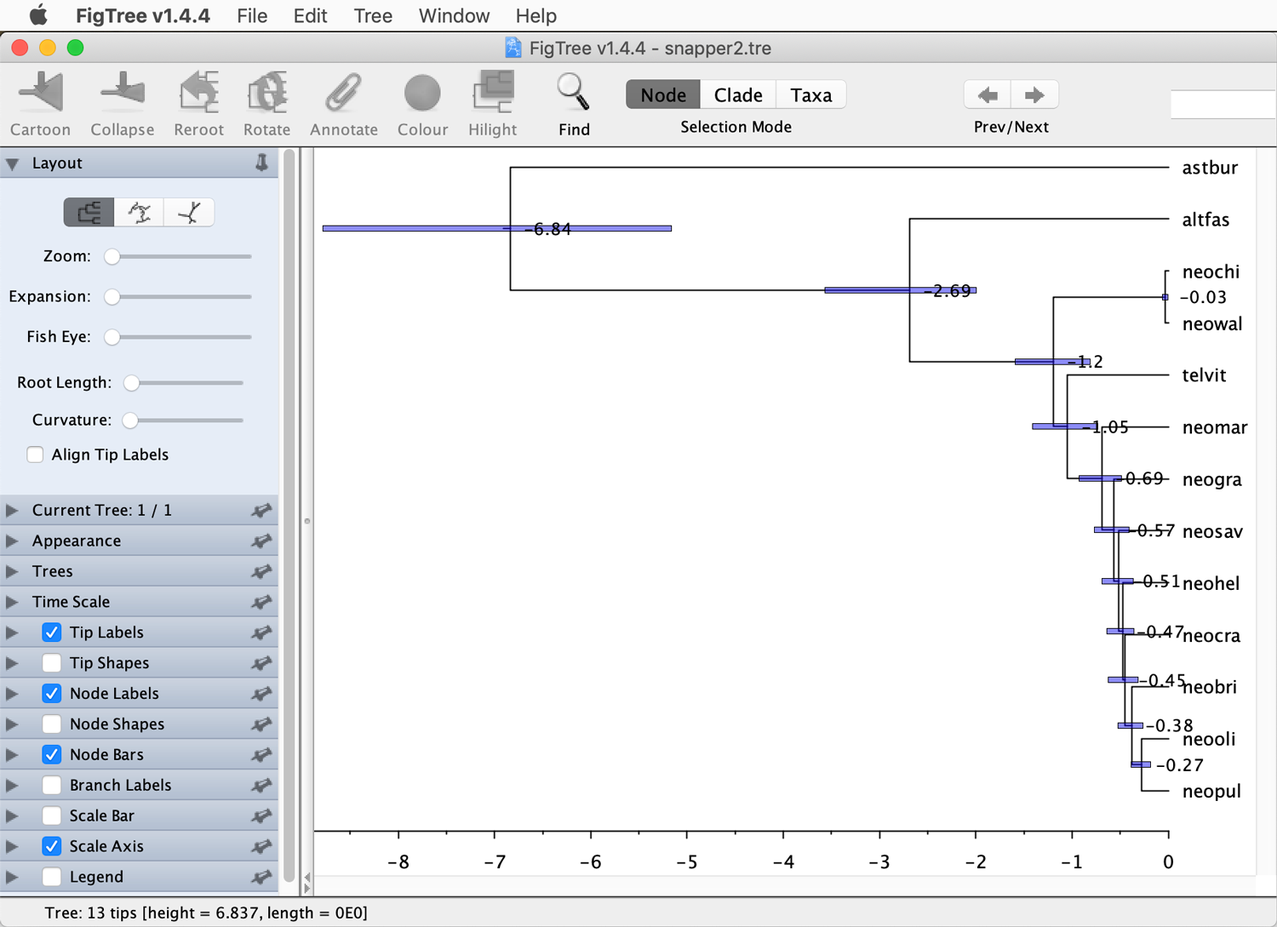
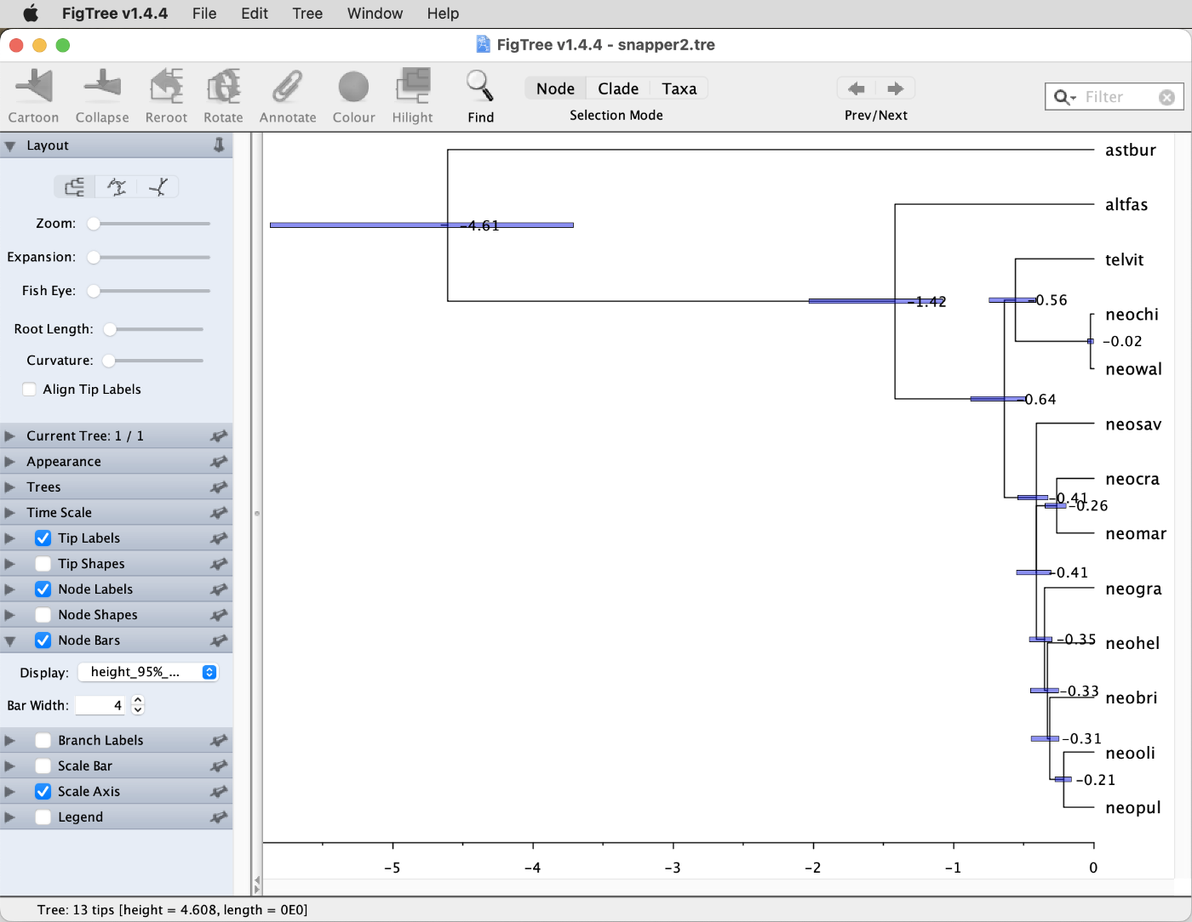
updated tutorial divergence time estimation with snp data

Changed region(s): [[0.0, 0.0, 1.0, 1.0], [0.3993, 0.3044, 0.7986, 0.3349], [0.7064, 0.3653, 0.7679, 0.3958]]

diff --git a/divergence_time_estimation_with_snp_data/README.md b/divergence_time_estimation_with_snp_data/README.md
@@ -5,7 +5,7 @@ By [Michael Matschiner](https://evoinformatics.group/team.html#michaelmatschiner
 
 ## Summary
 
-Besides [SVDQuartets](https://www.asc.ohio-state.edu/kubatko.2/software/SVDquartets/) ([Chifman and Kubatko 2014](https://doi.org/10.1093/bioinformatics/btu530)), other methods for phylogenetic inference with the multi-species-coalescent model based on SNP data are implemented in [SNAPP (SNP and AFLP Package for Phylogenetic analysis)](https://www.beast2.org/snapp/) ([Bryant et al. 2012](https://doi.org/10.1093/molbev/mss086)) and [SNAPPER](https://github.com/rbouckaert/snapper) ([Stoltz et al. 2021](https://doi.org/10.1093/sysbio/syaa051)), two add-on packages for the program BEAST2. SNAPP is in principle similar to the approach of StarBEAST2, only that each single SNP is considered as its own marker and gene trees are not separately inferred for each of these markers. Instead, SNAPP calculates the probability of the species tree without inferring gene trees, by mathematically integrating over all possible gene trees. This approach reduces the parameter space of the model tremendously and might thus be expected to also reduce the computational demand of the analysis. Unfortunately, however, the mathematical integration over all possible gene trees is computationally very demanding and SNAPP analyses are therefore only feasible for a relatively small number of individuals per species. This problem of SNAPP's high computational demand has recently been addressed with the release of SNAPPER, an approach that is similar to SNAPP except that a so-called diffusion model is used to calculate the likelihood of the species tree instead of mathematically integrating over all possible gene trees.
+Besides [SVDQuartets](https://www.asc.ohio-state.edu/kubatko.2/software/SVDquartets/) ([Chifman and Kubatko 2014](https://doi.org/10.1093/bioinformatics/btu530)), other methods for phylogenetic inference with the multi-species-coalescent model based on SNP data are implemented in [SNAPP (SNP and AFLP Package for Phylogenetic analysis)](https://www.beast2.org/snapp/) ([Bryant et al. 2012](https://doi.org/10.1093/molbev/mss086)) and [SNAPPER](https://github.com/rbouckaert/snapper) ([Stoltz et al. 2021](https://doi.org/10.1093/sysbio/syaa051)), two add-on packages for the program BEAST2. SNAPP is in principle similar to the approach of StarBeast3, only that each single SNP is considered as its own marker and gene trees are not separately inferred for each of these markers. Instead, SNAPP calculates the probability of the species tree without inferring gene trees, by mathematically integrating over all possible gene trees. This approach reduces the parameter space of the model tremendously and might thus be expected to also reduce the computational demand of the analysis. Unfortunately, however, the mathematical integration over all possible gene trees is computationally very demanding and SNAPP analyses are therefore only feasible for a relatively small number of individuals per species. This problem of SNAPP's high computational demand has recently been addressed with the release of SNAPPER, an approach that is similar to SNAPP except that a so-called diffusion model is used to calculate the likelihood of the species tree instead of mathematically integrating over all possible gene trees.
 
 Another limitation of SNAPP has long been that the reported branch lengths were in coalescent units rather than in units of time, and that these could not easily be converted into time due to ascertainment bias in the SNP data. To address this, we tweaked the settings of SNAPP in our study [Stange et al. (2018)](https://doi.org/10.1093/sysbio/syy006) so that they include a strict-clock model that can be time calibrated based on the fossil record or on information from other phylogenies.
 
@@ -23,7 +23,7 @@ Another limitation of SNAPP has long been that the reported branch lengths were 
 <a name="outline"></a>
 ## Outline
 
-In this tutorial I am going to present how the BEAST2 add-on packages SNAPP and SNAPPER can be used for divergence-time estimation with SNP data. The settings of for time-calibrated inference with both approaches can not be specified through the program BEAUti, but instead the Ruby script [`snapp_prep.rb`](https://github.com/mmatschiner/snapp_prep) can be used to generate input files for time-calibrated analyses with SNAPP or SNAPPER. Run times will be compared between the two approaches and differences between the inferred species trees and between these and the species tree generated in tutorial [Bayesian Species-Tree Inference](../bayesian_species_tree_inference/README.md) will be explored.
+In this tutorial I am going to present how the BEAST2 add-on packages SNAPP and SNAPPER can be used for divergence-time estimation with SNP data. The settings for time-calibrated inference with both approaches can not be specified through the program BEAUti, but instead the Ruby script [`snapp_prep.rb`](https://github.com/mmatschiner/snapp_prep) can be used to generate input files for time-calibrated analyses with SNAPP or SNAPPER. Run times will be compared between the two approaches, and differences between the inferred species trees and between these and the species tree generated in tutorial [Bayesian Species-Tree Inference](../bayesian_species_tree_inference/README.md) will be explored.
 
 
 <a name="dataset"></a>
@@ -75,14 +75,14 @@ The following tools are required additionally:
 * **SNAPP:** The [SNAPP method](https://www.beast2.org/snapp/) ([Bryant et al. 2012](https://doi.org/10.1093/molbev/mss086)) implements a version of the multi-species coalescent model that mathematically integrates over all possible locus trees at biallelic loci, and is therefore particularly well suited for SNP data. SNAPP is an add-on package for BEAST2 and can be installed through the BEAST2 Package Manager. However, since BEAUti will not be used to prepare SNAPP input files, the SNAPP package does not need to be installed on local computers, but only on Saga. Use these commands to do so:
 
 		module purge
-		module load Beast/2.6.4-GCC-9.3.0
+		module load Beast/2.7.0-GCC-11.3.0-CUDA-11.7.0
 		packagemanager -add SNAPP
 
 
 * **SNAPPER:** The [SNAPPER method](https://github.com/rbouckaert/snapper) ([Stoltz et al. 2021](https://doi.org/10.1093/sysbio/syaa051)) is similar to SNAPP in the sense that it uses biallelic loci as input and applies Bayesian MCMC to infer the species tree; however, the model used to calculate the tree likelihood is not the multi-species coalescent model but a Wright-Fisher diffusion model instead. Both of these models are approximations of one another and should produce similar results, particularly with larger population sizes. The difference between the two models is important when larger numbers of individuals are used per population, because the computational demand of SNAPP analyses increases rapidly with increasing numbers of individuals while that of SNAPPER remains roughly unchanged. Like SNAPP, SNAPPER is an add-on package for BEAST2 that can be installed through the BEAST2 Package Manager. The installation will also be required only on Saga and can be done with these commands:
 
 		module purge
-		module load Beast/2.6.4-GCC-9.3.0
+		module load Beast/2.7.0-GCC-11.3.0-CUDA-11.7.0
 		packagemanager -add snapper
 
 
@@ -92,9 +92,9 @@ The following tools are required additionally:
 
 In this part of the tutorial, we are going to run a SNAPP analysis using an XML input file that is prepared with the Ruby script `snapp_prep.rb` ([Stange et al. (2018)](https://doi.org/10.1093/sysbio/syy006)). The settings specified by this script allow time calibration of the species tree estimated by SNAPP through age constraints on one or more divergence events. Additionally, the population sizes of all species are linked to avoid unfeasible run times when more than a handful of species are analyzed.
 
-Based on simulations, we tested the performance of SNAPP with a range of datasets in [Stange et al. (2018)](https://doi.org/10.1093/sysbio/syy006). We found that the run time of SNAPP increases more or less linearly with the number of SNPs included in the dataset, but that the number of individuals used per species has an even stronger influence on run time. However, we also found that accurate and strongly supported species trees can be obtained with datasets containing only around 1,000 SNPs for just a single individual per species. Thus, before preparing the input file for SNAPP, we will first reduce the dataset that was already filtered in tutorial [Species-Tree Inference with SNP Data](../species_tree_inference_with_snp_data/README.md). This further filtering will again be done with bcftools.
+Based on simulations, we tested the performance of SNAPP with a range of datasets in [Stange et al. (2018)](https://doi.org/10.1093/sysbio/syy006). We found that the run time of SNAPP increases more or less linearly with the number of SNPs included in the dataset, but that the number of individuals used per species has an even stronger influence on run time. However, we also found that accurate and strongly supported species trees can be obtained with datasets containing only around 1,000 SNPs for just a single individual per species. Thus, before preparing the input file for SNAPP, we will first reduce the dataset that was already filtered in tutorial [Species-Tree Inference with SNP Data](../species_tree_inference_with_snp_data/README.md). This further filtering will again be done with BCFtools.
 
-* If you no longer have file `NC_031969.f5.sub4.vcf` in your current directory on Saga (it was produced in tutorial [Species-Tree Inference with SNP Data](../species_tree_inference_with_snp_data/README.md)), either copy it from `/cluster/projects/nn9458k/phylogenomics/week2/res` or download it from GitHub, using one of the following two commands:
+* If you no longer have file `NC_031969.f5.sub4.vcf` in your current working directory on Saga (it was produced in tutorial [Species-Tree Inference with SNP Data](../species_tree_inference_with_snp_data/README.md)), either copy it from `/cluster/projects/nn9458k/phylogenomics/week2/res` or download it from GitHub, using one of the following two commands:
 
 		cp /cluster/projects/nn9458k/phylogenomics/week2/res/NC_031969.f5.sub4.vcf .
 		
@@ -106,10 +106,11 @@ As mentioned above and in tutorial [Species-Tree Inference with SNP Data](../spe
 
 * To exclude the individuals "IZA1", "AXD5", "JBD5", "JUI1", "KHA9", "IVF1", "JWH1", "JWG8", "JWH3", "JWH5", "ISA6", "IYA4", and "KFD4" (these were selected because they have more missing data than the other individuals of each species) from a new file named `NC_031969.f5.sub5.vcf`, use the following commands:
 
-		module load BCFtools/1.10.2-GCC-9.3.0
+		module purge
+		module load BCFtools/1.12-GCC-10.2.0
 		srun --ntasks=1 --mem-per-cpu=1G --time=00:01:00 --account=nn9458k --pty bcftools view -s ^IZA1,AXD5,JBD5,JUI1,KHA9,IVF1,JWH1,JWG8,JWH3,JWH5,ISA6,IYA4,KFD4 -o NC_031969.f5.sub5.vcf NC_031969.f5.sub4.vcf
 		
-	The reduction of individuals might have led to some sites becoming monomorphic for either the reference or the alternate allele. Some sites might also have no data left for one or more of the species, given that these are now represented by only one instead of two individuals. These could now be excluded these sites again with bcftools, for example with the `bcftools view` option `-e 'AC==0 || AC==AN || F_MISSING > 0.0'`. However, this is not necessary because the `snapp_prep.rb` script, which will be used to write the XML file for SNAPP, will automatically exclude these sites anyway.
+	The reduction of individuals might have led to some sites becoming monomorphic for either the reference or the alternate allele. Some sites might also have no data left for one or more of the species, given that these are now represented by only one instead of two individuals. These could now be excluded these sites again with BCFtools, for example with the `bcftools view` option `-e 'AC==0 || AC==AN || F_MISSING > 0.0'`. However, this is not necessary because the `snapp_prep.rb` script, which will be used to write the XML file for SNAPP, will automatically exclude these sites anyway.
 	
 	 **Question 1:** How many SNPs are left in file `NC_031969.f5.sub5.vcf`? [(see answer)](#q1)
 
@@ -119,7 +120,7 @@ As mentioned above and in tutorial [Species-Tree Inference with SNP Data](../spe
 		
 * To see the options available for generating SNAPP input files with `snapp_prep.rb`, have a look at the help text of the script by using the following commands:
 
-		module load Ruby/2.7.2-GCCcore-9.3.0
+		module load Ruby/2.7.2-GCCcore-10.2.0
 		ruby snapp_prep.rb -h
 		
 	You'll see that `snapp_prep.rb` can write XML files for either SNAPP or SNAPPER (option `-a`), and that it accepts input either in Phylip (with option `-p`) or VCF (option `-v`) format. In addition, the script requires a table file (option `-t`) in which individuals are assigned to species, and a constraint file (option `-c`) in which age constraints for selected divergence events are specified. None of the other options are required, but these can be useful if you need to specify a starting tree (option `-t`) because SNAPP fails to find a suitable starting tree itself, if you want to increase or decrease the default length (500,000 iterations) of the MCMC chain (option `-l`), or if you want to limit the dataset to a certain number of SNPs to reduce the run time (option `-m`). 
@@ -143,11 +144,11 @@ As mentioned above and in tutorial [Species-Tree Inference with SNP Data](../spe
 		neosav	ISA8
 		neowal	KFD2
 
-* For the constraint file, we'll need to specify at least one age constraint for a divergence among the 13 cichlid species. For this, we can refer to the results of the analysis with the multi-species coalescent model in tutorial [Bayesian Species-Tree Inference](../bayesian_species_tree_inference/README.md). In that tutorial, the divergence of *Astatotilapia burtoni* ("astbur") and the *Neolamprologus* species was estimated at 7.02 Ma with a 95% HPD interval from 5.41 to 9.13 Ma. We can approximate this mean and confidence interval with a lognormal distribution centered at 7.02 Ma that has a standard deviation (in real space) of 0.13. In addition, we could also constrain the first divergence among the species *Neolamprologus brichardi* ("neobri"), *Neolamprologus gracilis* ("neogra"), *Neolamprologus marunguensis* ("neomar"), and *Neolamprologus olivaceus* ("neooli") according to the results of this earlier analysis; however, it is likely that this divergence event would be more precisely estimated with the current SNP dataset. Thus, we are only going to constrain the age of a single node: the divergence of *Astatotilapia burtoni* ("astbur") from the species of the tribe Lamprologini.
+* For the constraint file, we'll need to specify at least one age constraint for a divergence among the 13 cichlid species. For this, we can refer to the results of the analysis with the multi-species coalescent model in tutorial [Bayesian Species-Tree Inference](../bayesian_species_tree_inference/README.md). In that tutorial, the divergence of *Astatotilapia burtoni* ("astbur") and the *Neolamprologus* species was estimated at 4.53 Ma with a 95% HPD interval from 3.21 to 6.09 Ma. We can approximate this mean and confidence interval with a lognormal distribution centered at 4.53 Ma that has a standard deviation (in real space) of 0.16. In addition, we could also constrain the first divergence among the species *Neolamprologus brichardi* ("neobri"), *Neolamprologus gracilis* ("neogra"), *Neolamprologus marunguensis* ("neomar"), and *Neolamprologus olivaceus* ("neooli") according to the results of this earlier analysis; however, it is likely that this divergence event would be more precisely estimated with the current SNP dataset. Thus, we are only going to constrain the age of a single node: the divergence of *Astatotilapia burtoni* ("astbur") from the species of the tribe Lamprologini.
 
 	To write this single age constraint to a constraint file, write the following text to a new file named `constraints.txt`:
 
-		lognormal(0,7.02,0.13)	crown	astbur,altfas,telvit,neobri,neochi,neocra,neogra,neohel,neomar,neooli,neopul,neosav,neowal
+		lognormal(0,4.53,0.16)	crown	astbur,altfas,telvit,neobri,neochi,neocra,neogra,neohel,neomar,neooli,neopul,neosav,neowal
 		
 	Note that the above line contains three character strings that are delimited with white space (tabs or spaces). The first of the three character strings specifies that a lognormal distribution with an offset of 0, a mean of 7.02, and a standard deviation (in real space) of 0.13 should be used for the constraint. The second character string ("crown") specifies that the crown divergence of the clade should be constrained rather than the stem divergence (this would be the time at which the clade diverged from its sister group). Finally, the third character string simply lists all species included in the constrained clade, separated by commas. Because the constraint used here applies to the very first divergence of the phylogeny (the root), all species names are listed in the third character string.
 
@@ -163,7 +164,7 @@ As mentioned above and in tutorial [Species-Tree Inference with SNP Data](../spe
 		
 * The script `snapp_prep.rb` should have written a file named `snapp.xml`. You could open that, for example with `less -S snapp.xml` and read some of the annotations if you'ld like to know more about the settings that we are about to use with SNAPP.
 		
-To "run SNAPP", we actually run BEAST2. The analysis can be sped up by using multiple CPUs, as SNAPP analyses are highly parallelizable. Thus, with e.g. four CPUs available that are all used for the SNAPP analysis, this analysis should take only about a fourth of the time that would be required with a single CPU. When running SNAPP analyses on a server such as Saga, one could even use tens of CPUs simultaneously, which would shorten SNAPP's run times tremendously. We will here use 16 CPUs on Saga  to speed up the analysis.
+To "run SNAPP", we actually run BEAST2. The analysis can be sped up by using multiple CPUs, as SNAPP analyses are highly parallelizable. Thus, with e.g. four CPUs available that are all used for the SNAPP analysis, this analysis should take only about a fourth of the time that would be required with a single CPU. When running SNAPP analyses on a server such as Saga, one could even use tens of CPUs simultaneously, which would shorten SNAPP's run times tremendously. We will here use 16 CPUs on Saga to speed up the analysis.
 
 * Write a Slurm script named `run_snapp.slurm` with the following content to prepare the SNAPP analysis:
 
@@ -192,7 +193,7 @@ To "run SNAPP", we actually run BEAST2. The analysis can be sped up by using mul
 		module --quiet purge  # Reset the modules to the system default
 		
 		# Load the beast2 module.
-		module load Beast/2.6.4-GCC-9.3.0
+		module load Beast/2.7.0-GCC-11.3.0-CUDA-11.7.0
 
 		# Run snapp.
 		beast -threads 16 snapp.xml
@@ -200,7 +201,7 @@ To "run SNAPP", we actually run BEAST2. The analysis can be sped up by using mul
 * Submit the Slurm script with `sbatch`:
 
 		sbatch run_snapp.slurm
-	
+
 * Monitor the file `run_snapp.out` by repeatedly opening it over the course of a few minutes (using, e.g. `less run_snapp.out` or `tail -n 1 run_snapp.out`).
 
 	**Question 4:** How long is SNAPP going to run to reach the MCMC length of 100,000 iterations that we specified when setting up the XML with `snapp_prep.rb`? [(see answer)](#q4)
@@ -248,7 +249,7 @@ While the SNAPP analysis is running, we will in parallel set up an analysis with
 		module --quiet purge  # Reset the modules to the system default
 		
 		# Load the beast2 module.
-		module load Beast/2.6.4-GCC-9.3.0
+		module load Beast/2.7.0-GCC-11.3.0-CUDA-11.7.0
 
 		# Run snapper.
 		beast -threads 16 snapper.xml
@@ -345,21 +346,21 @@ While the SNAPPER analysis (and probably also still the SNAPP analysis) are runn
 	
 	**Question 7:** How does this estimate of the population size of Lake Tanganyika cichlid fishes compare to that assumed in tutorial [Bayesian Species-Tree Inference](../bayesian_species_tree_inference/README.md)? [(see answer)](#q7)
 
-* Next, download the file `snapp.trees` from Saga to your local computer and open it in the software Densitree from the BEAST2 package (it can be found in the same directory as the GUI versions of BEAST2 and BEAUti) to visualize the full set of posterior trees sampled by SNAPP, as shown in the next screenshot.<p align="center"><img src="img/densitree1.png" alt="DensiTree" width="700"></p> You should see that not all posterior trees share the same topology, indicating remaining uncertainty in the relationships of the 13 cichlid species. In particular, the relationships of *Telmatochromis vittatus* ("telvit") appear ambiguous, as this species is placed next to *Neolamprologus walteri* ("neowal") and *Neolamprologus chitamwebwai* ("neochi") in some of the posterior trees, but apparently closer to the remaining *Neolamprologus* species or ancestral to all of them in the other posterior trees. The relationships among the five species *Neolamprologus brichardi* ("neobri"), *Neolamprologus olivaceous* ("neooli"), *Neolamprologus pulcher* ("neopul"), *Neolamprologus helianthus* ("neohel"), and *Neolamprologus gracilis* ("neogra") also appear uncertain.
+* Next, download the file `snapp.trees` from Saga to your local computer and open it in the software Densitree from the BEAST2 package (it can be found in the same directory as the GUI versions of BEAST2 and BEAUti) to visualize the full set of posterior trees sampled by SNAPP, as shown in the next screenshot.<p align="center"><img src="img/densitree1.png" alt="DensiTree" width="700"></p> Unfortunately, the tip labels are misplaced due to a bug in the latest version of Densitree. Nevertheless, you should see that not all posterior trees share the same topology, indicating remaining uncertainty in the relationships of the 13 cichlid species. In particular, the relationships of *Telmatochromis vittatus* ("telvit"; the fifth species from the bottom) appear ambiguous, as this species is placed next to *Neolamprologus walteri* ("neowal") and *Neolamprologus chitamwebwai* ("neochi") in some of the posterior trees, but apparently closer to the remaining *Neolamprologus* species or ancestral to all of them in the other posterior trees. The relationships among the five species *Neolamprologus brichardi* ("neobri"), *Neolamprologus olivaceous* ("neooli"), *Neolamprologus pulcher* ("neopul"), *Neolamprologus helianthus* ("neohel"), and *Neolamprologus gracilis* ("neogra") also appear uncertain.
 
 * Also quantify the posterior probabilities of clades as node support in a maximum-clade-credibility tree using TreeAnnotator on Saga. Set the burnin percentage to 10, choose mean heights as node heights, select `snapp.trees` as the input file, and name the output file "snapp.tre":
 
-		module load Beast/2.6.4-GCC-9.3.0
+		module purge
+		module load Beast/2.7.0-GCC-11.3.0-CUDA-11.7.0
 		srun --ntasks=1 --mem-per-cpu=1G --time=00:01:00 --account=nn9458k --pty treeannotator -burnin 10 -heights mean snapp.trees snapp.tre
-
 
 * Download file `snapp.tre` from Saga to your local computer with `scp` and open it in FigTree.
 
-* Display the "posterior" node support values as node labels, as shown in the screenshot below.<p align="center"><img src="img/figtree1.png" alt="FigTree" width="700"></p>The posterior probabilities for the different clades support the interpretation based on the Densitree plot made above: The position of *Telmatochromis vittatus* ("telvit") is uncertain, and the placement of *Neolamprologus brichardi* ("neobri") as the sister to a clade comprising *Neolamprologus olivaceous* ("neooli") and *Neolamprologus pulcher* ("neopul") is also poorly supported. However, the visualization in FigTree also shows that a clade comprising the three species *Neolamprologus brichardi* ("neobri"), *Neolamprologus olivaceous* ("neooli"), and *Neolamprologus pulcher* ("neopul") is actually well supported; this has not been apparent in DensiTree.
+* Display the "posterior" node support values as node labels, as shown in the screenshot below.<p align="center"><img src="img/figtree1.png" alt="FigTree" width="700"></p>The posterior probabilities for the different clades support the interpretation based on the Densitree plot made above: The position of *Telmatochromis vittatus* ("telvit") is uncertain, and so are the relationships within the clade comprising comprising *Neolamprologus olivaceous* ("neooli"), *N. pulcher* ("neopul"), *N. gracilis* ("neogra"), *N. brichardi* ("neobri"), and *N. helianthus* ("neohel").
 	
 	**Question 8:** Is the species-tree topology estimated with SNAPP concordant with that estimated with SVDQuartets in tutorial [Species-Tree Inference with SNP Data](../species_tree_inference_with_snp_data/README.md)? [(see answer)](#q8)
 	
-	**Question 9:** How does the divergence-time estimate for *Neolamprologus marunguensis* ("neomar"), *Neolamprologus gracilis* ("neogra"), *Neolamprologus brichardi* ("neobri"), and *Neolamprologus olivaceous* ("neooli") compare to that obtained with StarBEAST2 in tutorial [Bayesian Species-Tree Inference](bayesian_species_tree_inference/README.md)? [(see answer)](#q9)
+	**Question 9:** How does the divergence-time estimate for *Neolamprologus marunguensis* ("neomar"), *Neolamprologus gracilis* ("neogra"), *Neolamprologus brichardi* ("neobri"), and *Neolamprologus olivaceous* ("neooli") compare to that obtained with StarBeast3 in tutorial [Bayesian Species-Tree Inference](bayesian_species_tree_inference/README.md)? [(see answer)](#q9)
 
 Despite the remaining uncertainty in the relationships among the *Neolamprologus* species, the SNAPP analysis has been valuable as it allowed us to estimate an average population size for species of the tribe Lamprologini, and improved the estimates of divergence times within the group.
 
@@ -367,11 +368,11 @@ Despite the remaining uncertainty in the relationships among the *Neolamprologus
 <a name="comparison"></a>
 ## Comparison of results obtained with SNAPP and SNAPPER
 
-Because the models used with SNAPP and SNAPPER, the likelihood, the prior probability, and the posterior probability are all not expected to be identical between the two analyses. However, the estimates for the speciation rate (lambda), the tree topology, and the divergence times should be similar with both tools. Additionally, we could expect that the estimates obtained by SNAPPER from the dataset with two individuals per species are more precise (have shorter confidence intervals) than those obtained with a single individual per species.
+Because the models used with SNAPP and SNAPPER were different, the likelihood, the prior probability, and the posterior probability are all not expected to be identical between the two analyses. However, the estimates for the speciation rate (lambda), the tree topology, and the divergence times should be similar with both tools. Additionally, we could expect that the estimates obtained by SNAPPER from the dataset with two individuals per species are more precise (have shorter confidence intervals) than those obtained with a single individual per species.
 
 * When the SNAPPER analyses have finished on Saga, generate maximum-clade-credibility trees with TreeAnnotator for both analyses:
 
-		module load Beast/2.6.4-GCC-9.3.0
+		module load Beast/2.7.0-GCC-11.3.0-CUDA-11.7.0
 		srun --ntasks=1 --mem-per-cpu=1G --time=00:01:00 --account=nn9458k --pty treeannotator -burnin 10 -heights mean snapper.trees snapper.tre
 		srun --ntasks=1 --mem-per-cpu=1G --time=00:01:00 --account=nn9458k --pty treeannotator -burnin 10 -heights mean snapper2.trees snapper2.tre
 
@@ -441,33 +442,33 @@ Because the models used with SNAPP and SNAPPER, the likelihood, the prior probab
 
 <a name="q7"></a>
 
-* **Question 7:** Recall that in tutorial [Bayesian Species-Tree Inference](../bayesian_species_tree_inference/README.md), the population-size parameter was fixed in the analysis with the multi-species coalescent model according to an estimate published by [Meyer et al. (2017)](https://doi.org/10.1093/sysbio/syw069). In this study, Meyer et al. (2017) reported that "effective population sizes (<i>N</i><sub>e</sub>) estimated with the multispecies coalescent model ranged between 3.6 &times; 10<sup>4</sup> and 8.1 &times; 10<sup>5</sup>, assuming a mean generation times of 3 years for cichlid fishes". Most of these population-size estimates in Meyer et al. (2017) were around 3.3 &times; 10<sup>5</sup>, therefore this value was used in tutorial [Bayesian Species-Tree Inference](../bayesian_species_tree_inference/README.md). In comparison to this population size assumed in the other tutorial, the current population-size estimate based on the SNAPP analysis, with a mean of 1.1 &times; 10<sup>5</sup> and a 95% HPD interval ranging from 8.4 &times; 10<sup>4</sup> to 1.5 &times; 10<sup>5</sup>, is much smaller.
+* **Question 7:** Recall that in tutorial [Bayesian Species-Tree Inference](../bayesian_species_tree_inference/README.md), the population-size parameter was fixed in the analysis with the multi-species coalescent model according to an estimate published by [Meyer et al. (2017)](https://doi.org/10.1093/sysbio/syw069). In this study, Meyer et al. (2017) reported that "effective population sizes (<i>N</i><sub>e</sub>) estimated with the multispecies coalescent model ranged between 3.6 &times; 10<sup>4</sup> and 8.1 &times; 10<sup>5</sup>, assuming a mean generation times of 3 years for cichlid fishes". Most of these population-size estimates in Meyer et al. (2017) were around 3.3 &times; 10<sup>5</sup>, therefore this value was used in tutorial [Bayesian Species-Tree Inference](../bayesian_species_tree_inference/README.md). In comparison to this population size assumed in the other tutorial, the current population-size estimate based on the SNAPP analysis, with a mean of 7.8 &times; 10<sup>4</sup> and a 95% HPD interval ranging from 5.3 &times; 10<sup>4</sup> to 1.1 &times; 10<sup>5</sup>, is much smaller.
 
 
 <a name="q8"></a>
 
-* **Question 8:** The topology of the species tree estimated with SNAPP that is shown here is in fact fully concordant with the species tree estimated by SVDQuartets. In both cases *Telmatochromis vittatus* ("telvit") is placed outside of a monophyletic clade comprising all representatives of the genus *Neolamprologus*, and *Neolamprologus brichardi* ("neobri") appears as the sister of *Neolamprologus olivaceous* ("neooli") and *Neolamprologus pulcher* ("neopul"). However, these relationships are both poorly supported and might not be recovered in your SNAPP analysis due to stochastic differences in the sites sampled for the SNAPP input file as well as SNAPP's MCMC. The lower support values in the SNAPP analysis compared to the SVDQuartets analysis are not surprising, though, given that only a small fraction of the data used with SVDQuartets (over 63,000 SNPs) has been used in the analysis with SNAPP (1,000 SNPs). It may be expected that using a larger number of SNPs with SNAPP would increase the reliability of the resulting species tree.
+* **Question 8:** No, the topologies of the trees produced with SVDQuartets and SNAPP are not concordant. For example, SVDQuartets recovered a clade comprising *Neolamprologus brichardi* ("neobri"), *N. olivaceus* ("neooli"), and *N. pulcher* ("neopul"), even though *Neolamprologus brichardi* ("neobri") was found to cluster with *N. helianthus* ("neohel") in the SNAPP analysis. Note, however, that all conflicting nodes have low support in at least one of the two trees.
 
 
 <a name="q9"></a>
 
-* **Question 9:** Recall that the divergence time of the four species *Neolamprologus marunguensis* ("neomar"), *Neolamprologus gracilis* ("neogra"), *Neolamprologus brichardi* ("neobri"), and *Neolamprologus olivaceous* ("neooli") was estimated around 1.22 Ma in the analysis with StarBEAST2 in tutorial [Bayesian Species-Tree Inference](bayesian_species_tree_inference/README.md). In contrast, the first divergence of the clade comprising these four species was estimated with SNAPP at a slightly more recent time, around 0.70 Ma, as shown in the screenshot below. The 95% HPD interval for this age estimate ranges from 0.50 to 0.91 Ma (select "height\_95%\_HPD" instead of "Node ages" from the drop-down menu to see these). In contrast, the 95% HPD interval for this divergence time in the StarBEAST2 analysis was wider and ranged from 0.54 to 1.86 Ma, which thus includes almost the entire 95% HPD interval of the SNAPP analysis. This indicates that the two analyses do not disagree with each other regarding this divergence time but that the StarBEAST2 analysis was not able to estimate it as precisely as the SNAPP analysis.<p align="center"><img src="img/figtree2.png" alt="FigTree" width="700"></p>
+* **Question 9:** Recall that the divergence time of the four species *Neolamprologus marunguensis* ("neomar"), *Neolamprologus gracilis* ("neogra"), *Neolamprologus brichardi* ("neobri"), and *Neolamprologus olivaceous* ("neooli") was estimated around 0.82 Ma in the analysis with StarBeast3 in tutorial [Bayesian Species-Tree Inference](bayesian_species_tree_inference/README.md). In contrast, the first divergence of the clade comprising these four species was estimated with SNAPP at a more recent time, around 0.47 Ma, as shown in the screenshot below. The 95% HPD interval for this age estimate ranges from 0.31 to 0.65 Ma (select "height\_95%\_HPD" instead of "Node ages" from the drop-down menu to see these). In contrast, the 95% HPD interval for this divergence time in the StarBeast3 analysis was wider and ranged from 0.38 to 1.23 Ma, which thus includes almost the entire 95% HPD interval of the SNAPP analysis. This indicates that the two analyses do not disagree with each other regarding this divergence time but that the StarBeast3 analysis was not able to estimate it as precisely as the SNAPP analysis.<p align="center"><img src="img/figtree2.png" alt="FigTree" width="700"></p>
 
 <a name="q10"></a>
 
-* **Question 10:** In my analyses, this did not seem to be the case. The lowest ESS values were around 70 in each case, and the highest around 400.
+* **Question 10:** In my analyses, the ESS values were somewhat lower in the first SNAPPER analysis and far lower in the second, in which the burnin period had to be adjusted to around 30%.
 
 
 <a name="q11"></a>
 
-* **Question 11:** At least in my analyses, the estimates for the speciation rate were all comparable, slightly lower in the SNAPP analysis and as expected more precise in the SNAPPER analysis with two individuals per species.
+* **Question 11:** At least in my analyses, the estimates for the speciation rate were all comparable, albeit slightly higher in the first SNAPPER analysis and, as expected, more precise in the SNAPPER analysis with two individuals per species.
 
 
 <a name="q12"></a>
 
-* **Question 12:** In the results of my analyses, some nodes appeared to be quite a bit younger in the tree from the SNAPPER analysis with a single individual per species (`snapper.tre`) than in the other two trees. The effect was strongest for the divergence of *Altolamprologus fasciatus* ("altfas") from the *Neolamprologus* species and *Telmatochromis vittatus* ("telvit"): In the SNAPPER analysis with a single individual per species, this divergence was estimated to have occurred around 1.71 Ma, but in the other two analyses it was estimated at around 2.65-2.69 Ma. The youngest of all divergence events was also estimated very differently; at around 0.18 Ma in the SNAPPER analysis with a single individual per species, but around 0.27 and 0.36 in the other two analyses.
+* **Question 12:** In the results of my analyses, some nodes appeared to be quite a bit younger in the tree from the SNAPPER analysis with a single individual per species (`snapper.tre`) than in the other two trees. The overall youngest divergence, however, was estimated in the SNAPPER analysis with two individuals per species, where the divergence of *Neolamprologus chitamwebwai* ("neochi") and *N. walteri* ("neowal") was estimated as young as 0.02 Ma or 20,000 years ago. The confidence interval for this divergence time was even extremely narrow, ranging from 0 to 0.04 Ma. To see whether the data really supports such a young age under the SNAPPER model, we would have to extend and replicate the anlaysis until it is fully stationary and converged.
 
 
 <a name="q13"></a>
 
-* **Question 13:** Somewhat surprisingly, the SNAPPER analysis with two individuals per species did not recover the sister-group relationship between *Neolamprologus crassus* ("neocra") and *Neolamprologus marunguensis* ("neomar"), which was otherwise supported consistently in the two other analyses. Moreover, *Neolamprologus marunguensis* ("neomar") was even confidently placed outside of a clade comprising seven species including *Neolamprologus crassus* ("neocra"), with a Bayesian posterior probability node support of 1.<p align="center"><img src="img/figtree6.png" alt="Tracer" width="700"></p>This suggests that the second individual of *Neolamprologus marunguensis* ("neomar"), which was used in the second SNAPPER analysis but not in the other two analyses, may have been in conflict with the first individual of *Neolamprologus marunguensis* ("neomar"). This would highlight the importance of the inclusion of more extensive population-level data for reliable species-tree inference.
+* **Question 13:** A number of differences can be seen in the topologies of the three analyses; however, all of these affect nodes with low support values. The SNAPP analysis was the only one to recover a sister-group relationship between *Neolamprologus helianthus* ("neohel") and *N. brichardi* ("neobri"), but this relationship received a Bayesian posterior probability of only 0.43. Interestingly, the SNAPPER analysis with two individuals placed *Telmatochromis vittatus* ("telvit") next to the very young species pair *Neolamprologus chitamwebwai* ("neochi") and *N. walteri* ("neowal"), in contrast to the other two analyses.
